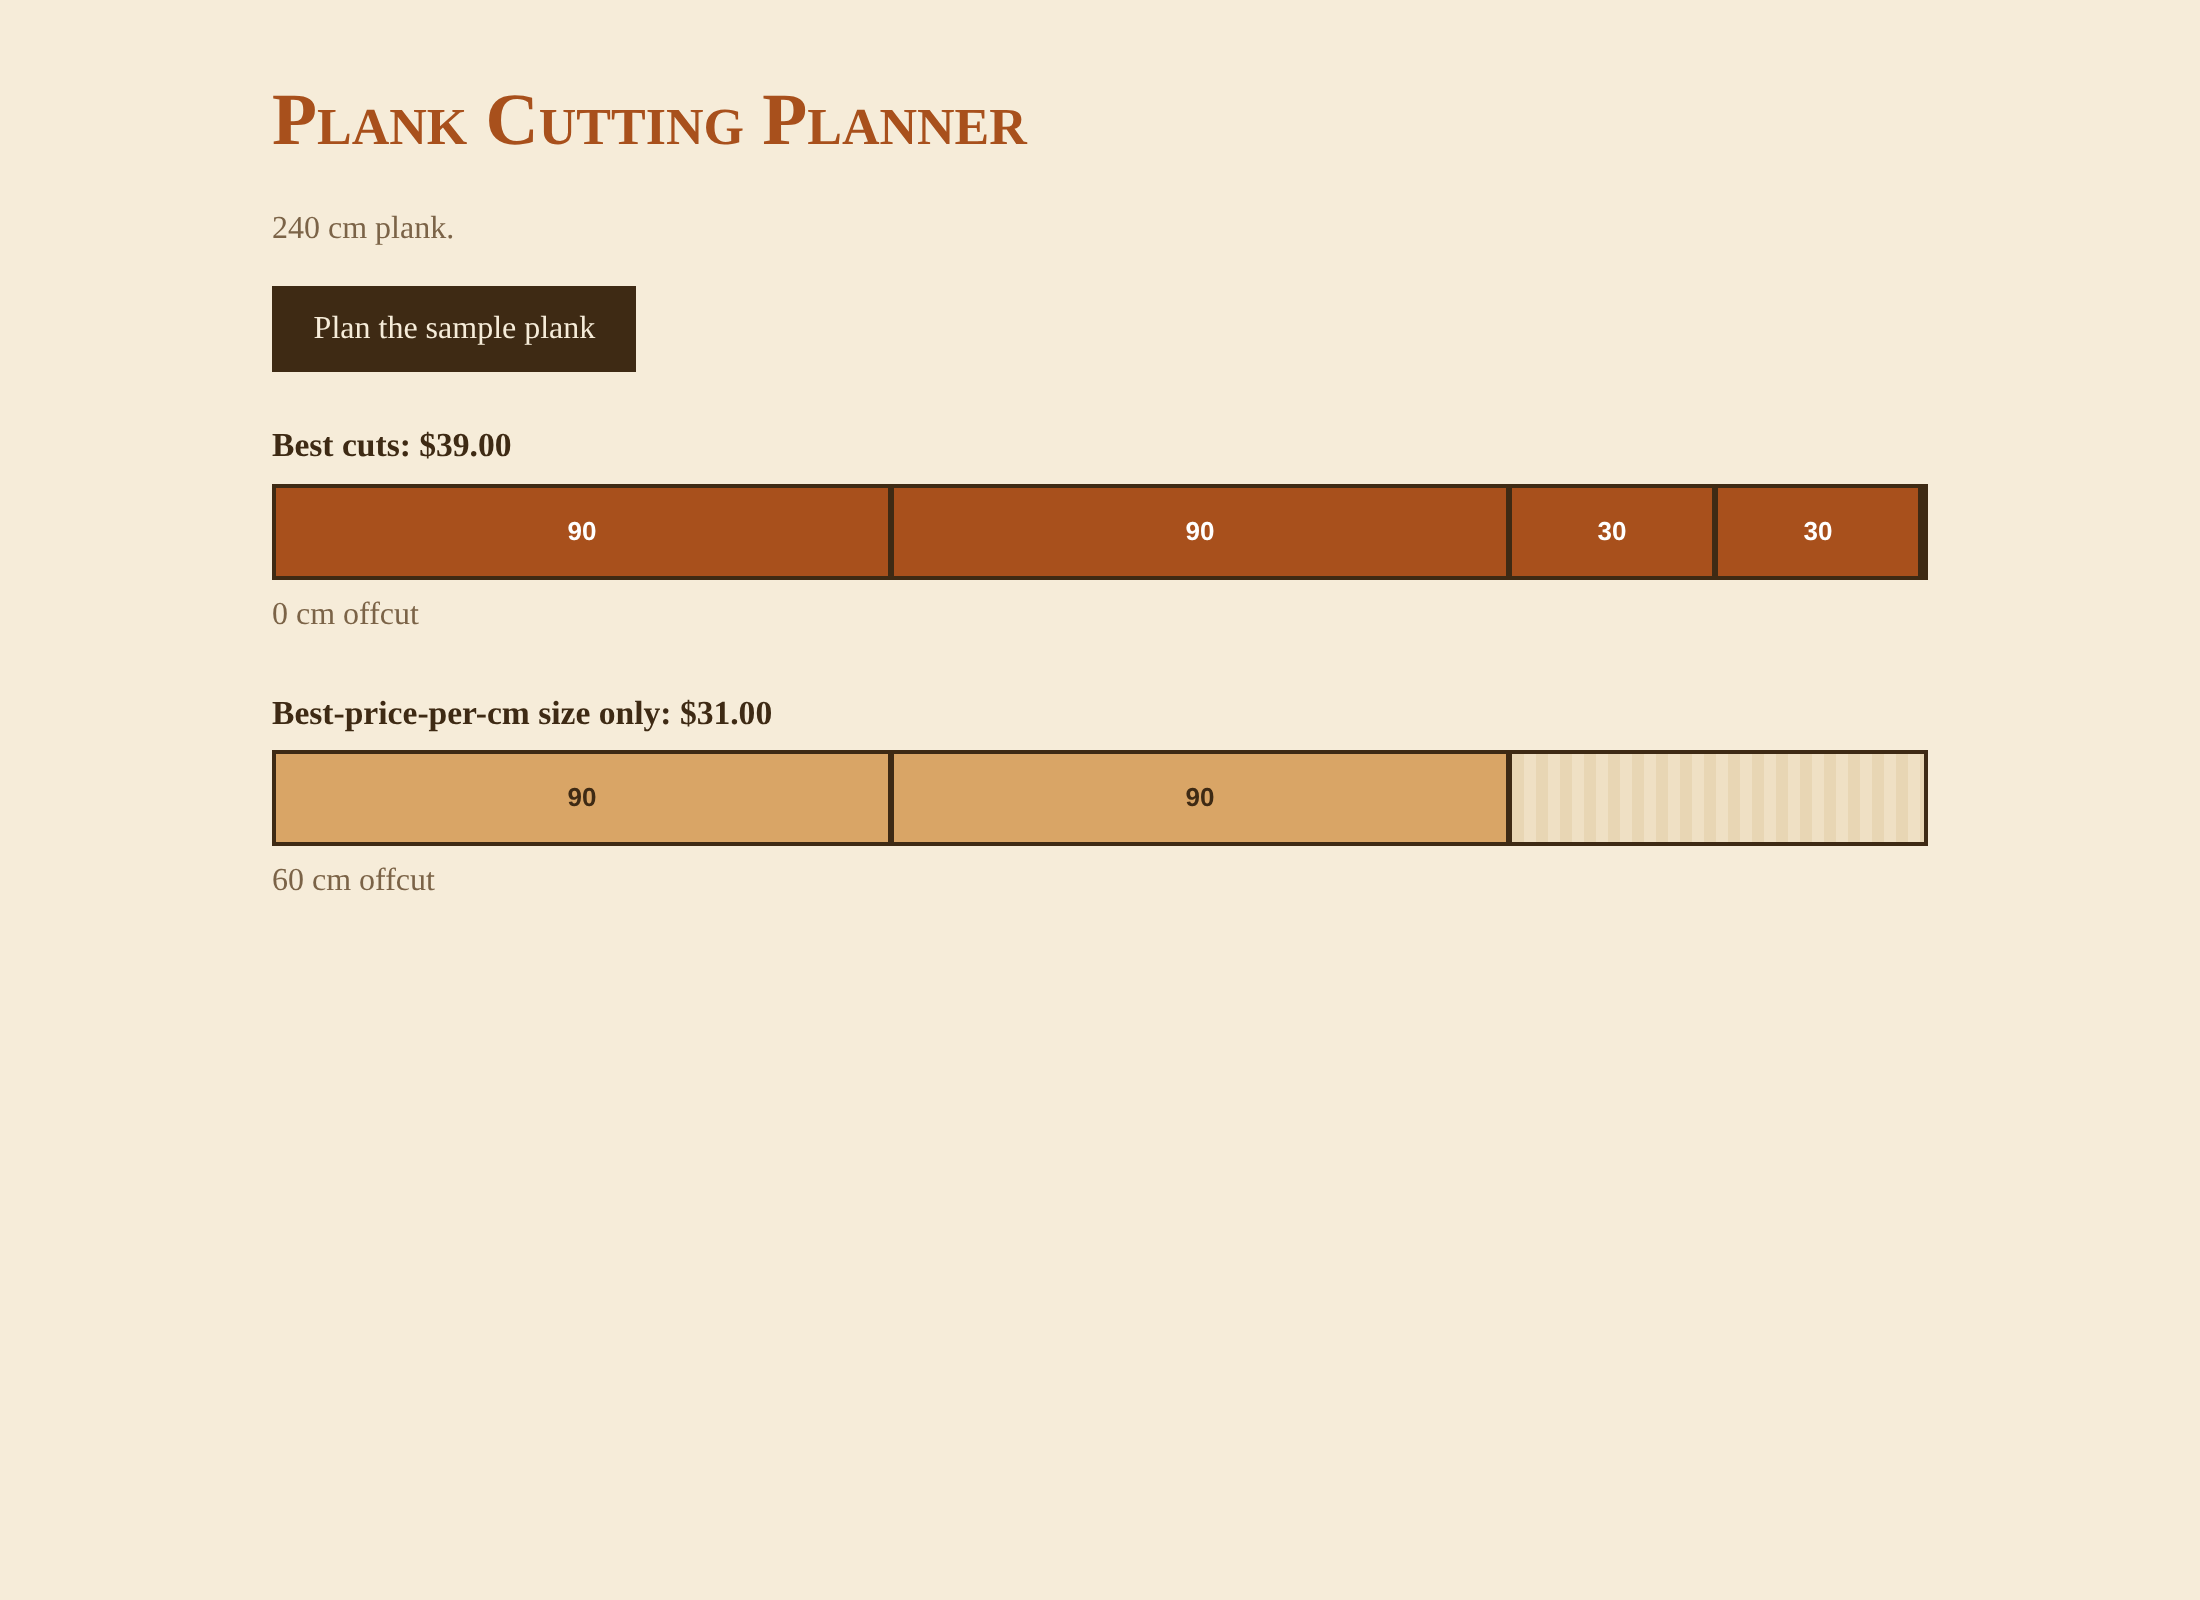
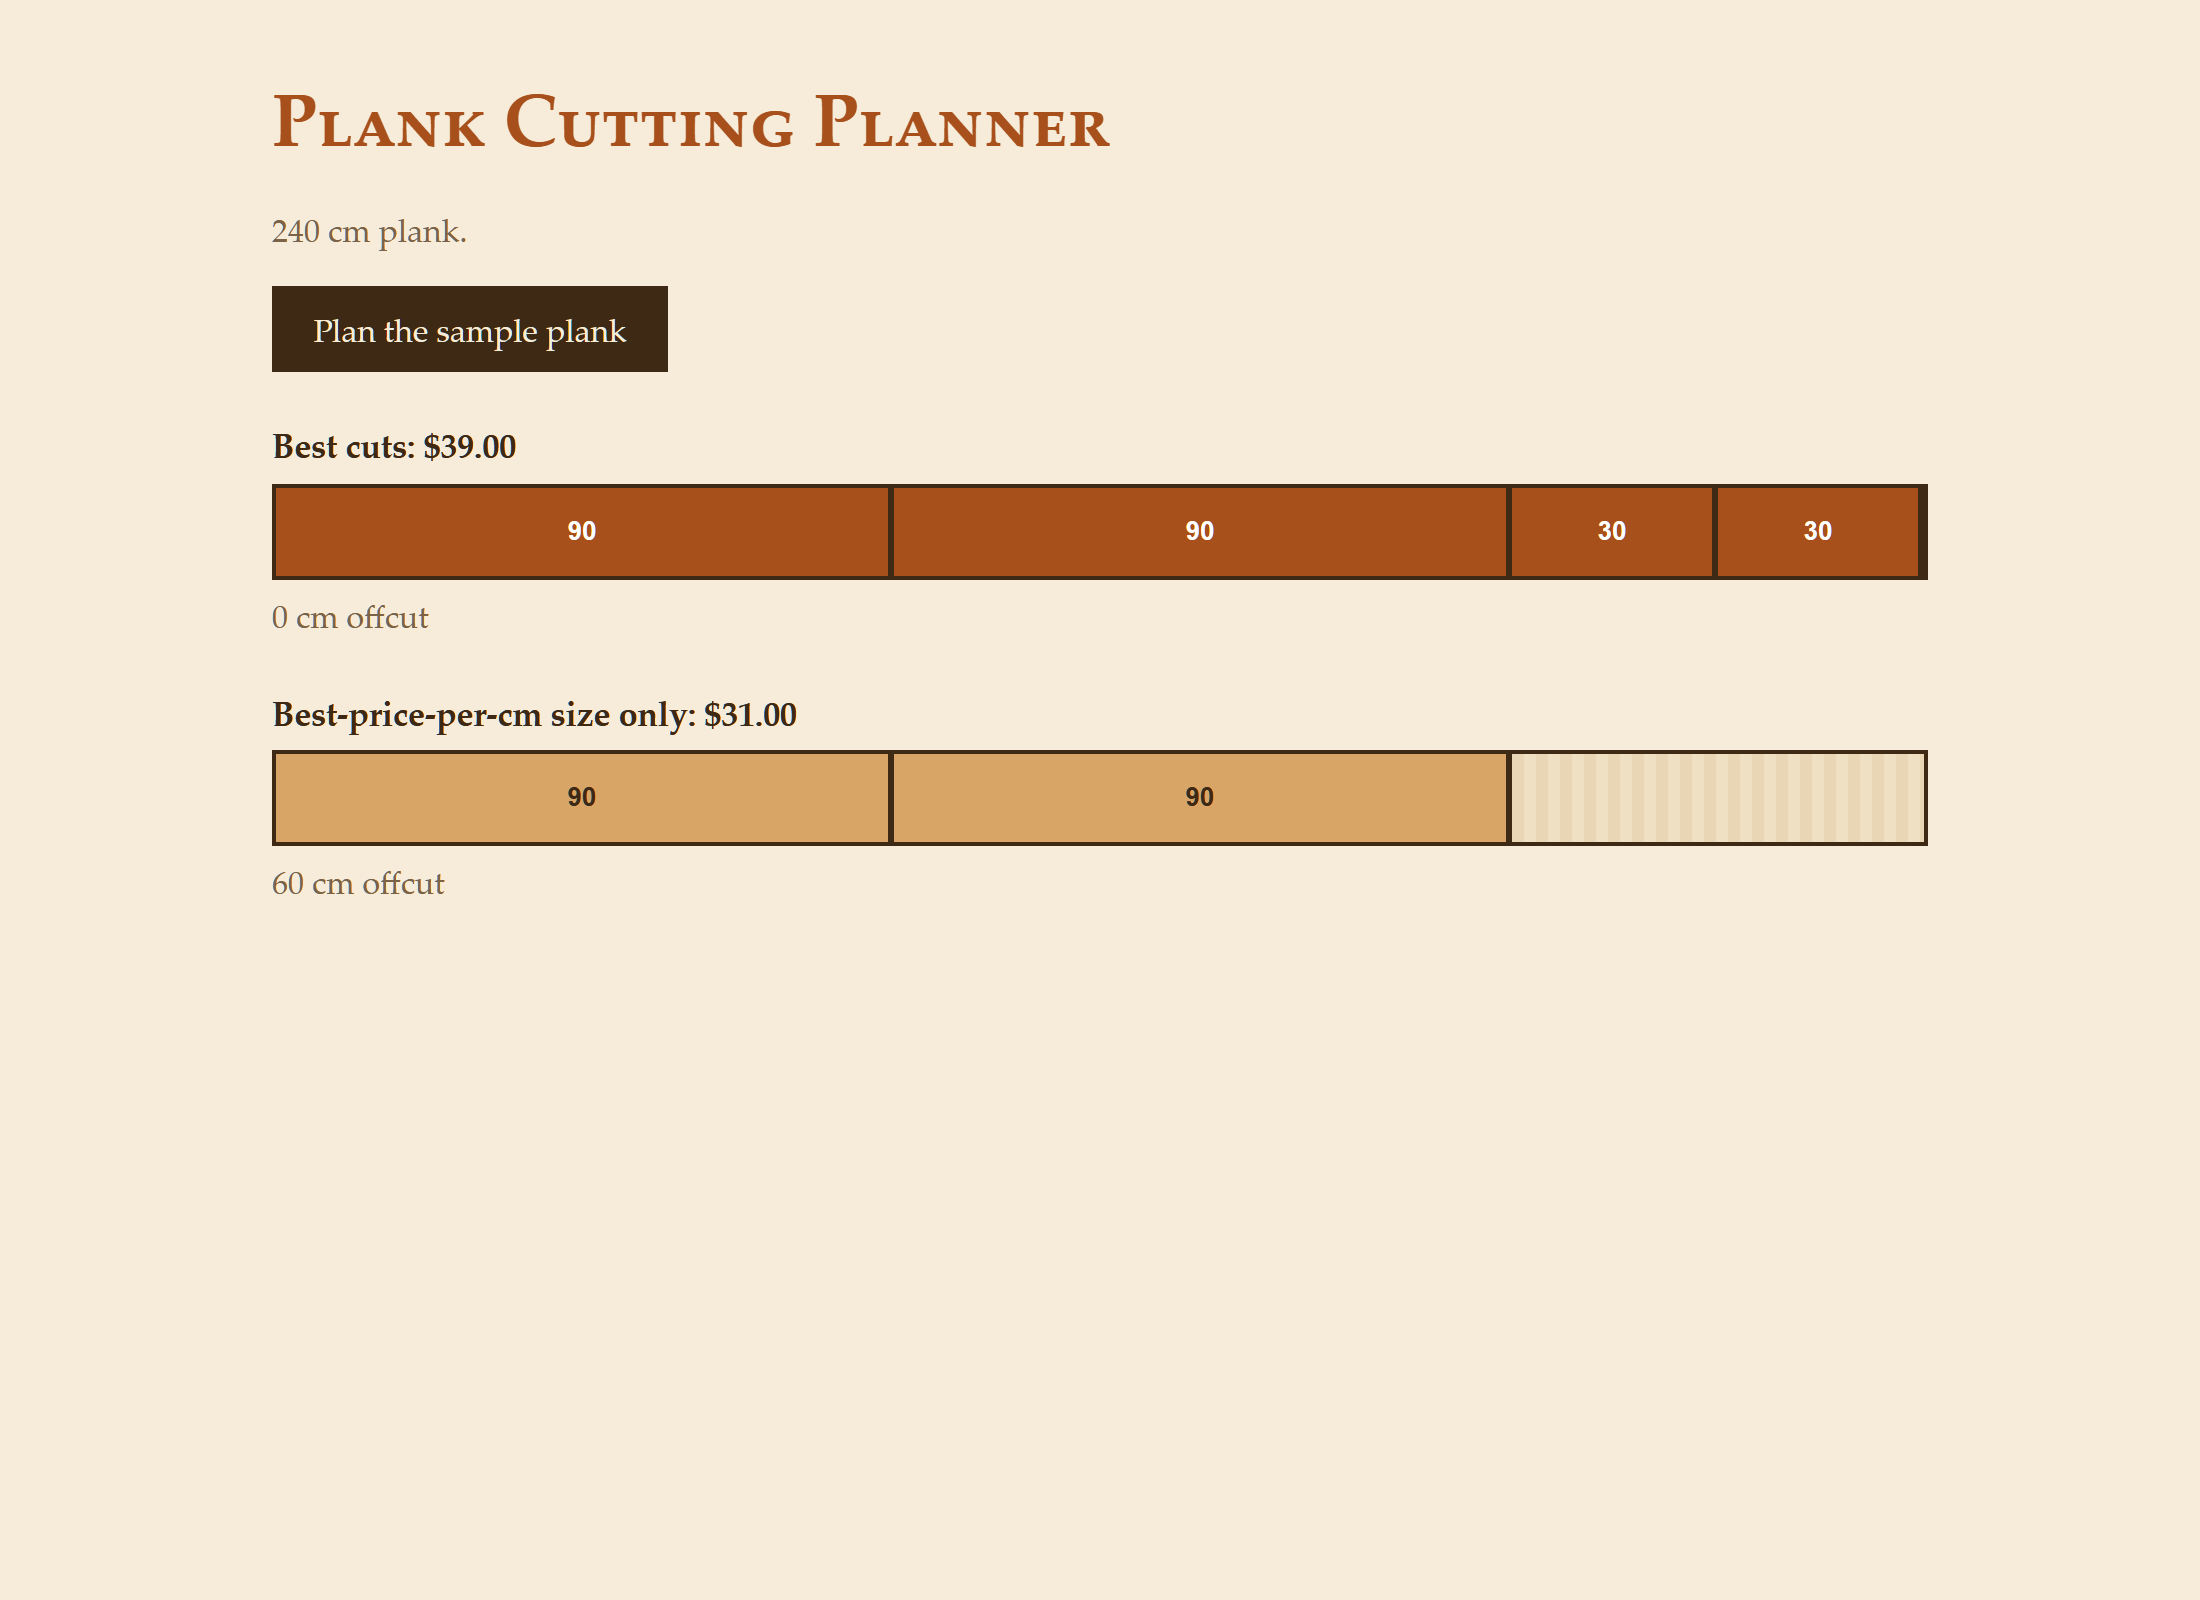
Improve plank-cutting-planner

diff --git a/projects/plank-cutting-planner/static/index.html b/projects/plank-cutting-planner/static/index.html
@@ -12,6 +12,7 @@ button{background:var(--ink);color:var(--bg);border:0;padding:.6rem 1.3rem;font:
 .cut{background:var(--wood);border-right:3px solid var(--ink);display:flex;align-items:center;justify-content:center;font:bold 13px sans-serif}
 .plan.win .cut{background:var(--accent);color:#fff}
 .meta{margin-top:6px;color:var(--mute)}
+@media (prefers-color-scheme: dark){:root{--bg:#1f1810;--ink:#f3e6cf;--accent:#e88a4f;--wood:#6b4a24;--mute:#c9b08a}.plan.win .cut{color:#1f1810}}
 </style></head><body><main>
 <h1>Plank Cutting Planner</h1>
 <p id="sub">Which pieces to cut for the most money?</p>
@@ -19,6 +20,7 @@ button{background:var(--ink);color:var(--bg);border:0;padding:.6rem 1.3rem;font:
 <script>
 const out=document.getElementById("out");
 document.getElementById("go").onclick=async()=>{
+  try{
   const s=await (await fetch("/sample")).json();
   const r=await (await fetch("/cut",{method:"POST",headers:{"Content-Type":"application/json"},body:JSON.stringify(s)})).json();
   document.getElementById("sub").textContent=`${r.length} cm plank.`;
@@ -29,6 +31,7 @@ document.getElementById("go").onclick=async()=>{
     for(const x of p.pieces)h+=`<div class="cut" style="width:${x/r.length*100}%">${x}</div>`;
     d.innerHTML=h+`</div><div class="meta">${p.waste} cm offcut</div>`;out.appendChild(d);
   }
+  }catch(e){out.textContent="Could not plan the cuts. Try again."}
 };
 document.getElementById("go").click();
 </script></body></html>

diff --git a/projects/plank-cutting-planner/tests/test_all.py b/projects/plank-cutting-planner/tests/test_all.py
@@ -72,3 +72,9 @@ def test_api():
     assert r["best"]["value"] > r["single_size"]["value"] and r["best"]["waste"] >= 0
     assert c.get("/").status_code == 200
     assert c.post("/cut", json={"length": 0, "prices": {}}).status_code == 422
+
+
+def test_index_has_error_text_and_dark_scheme():
+    page = c.get("/").text
+    assert "Could not plan the cuts" in page
+    assert "prefers-color-scheme: dark" in page
